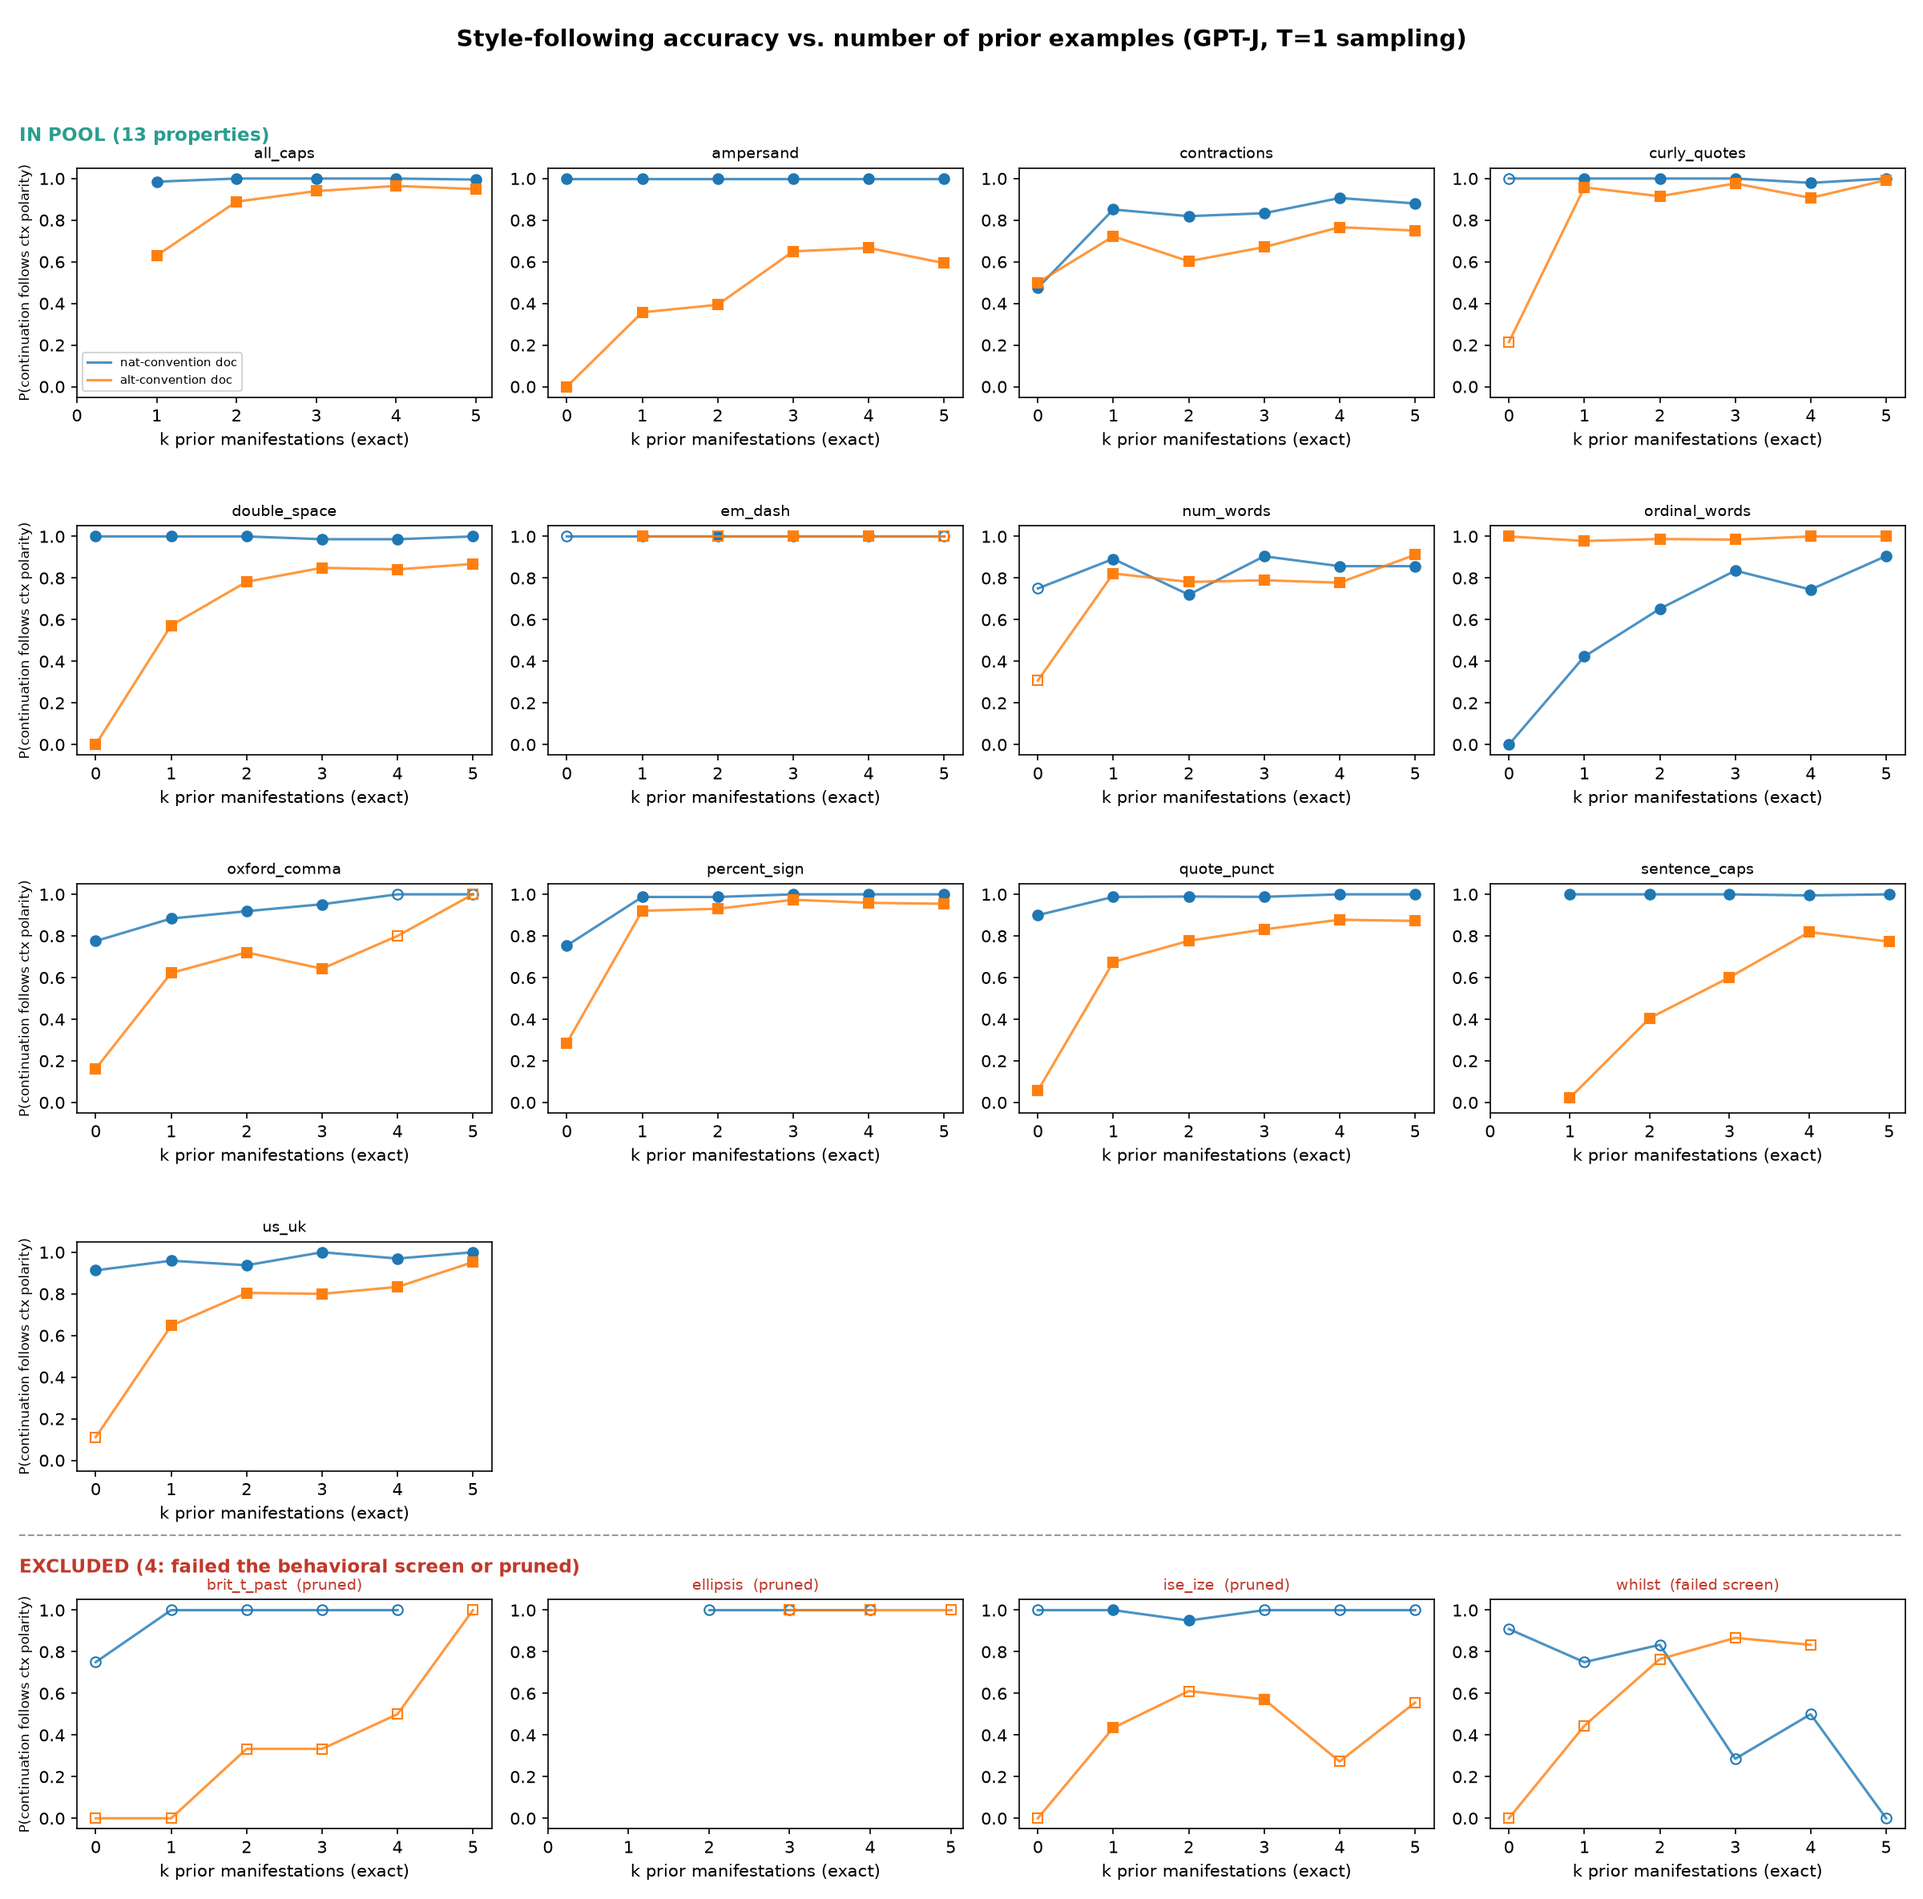
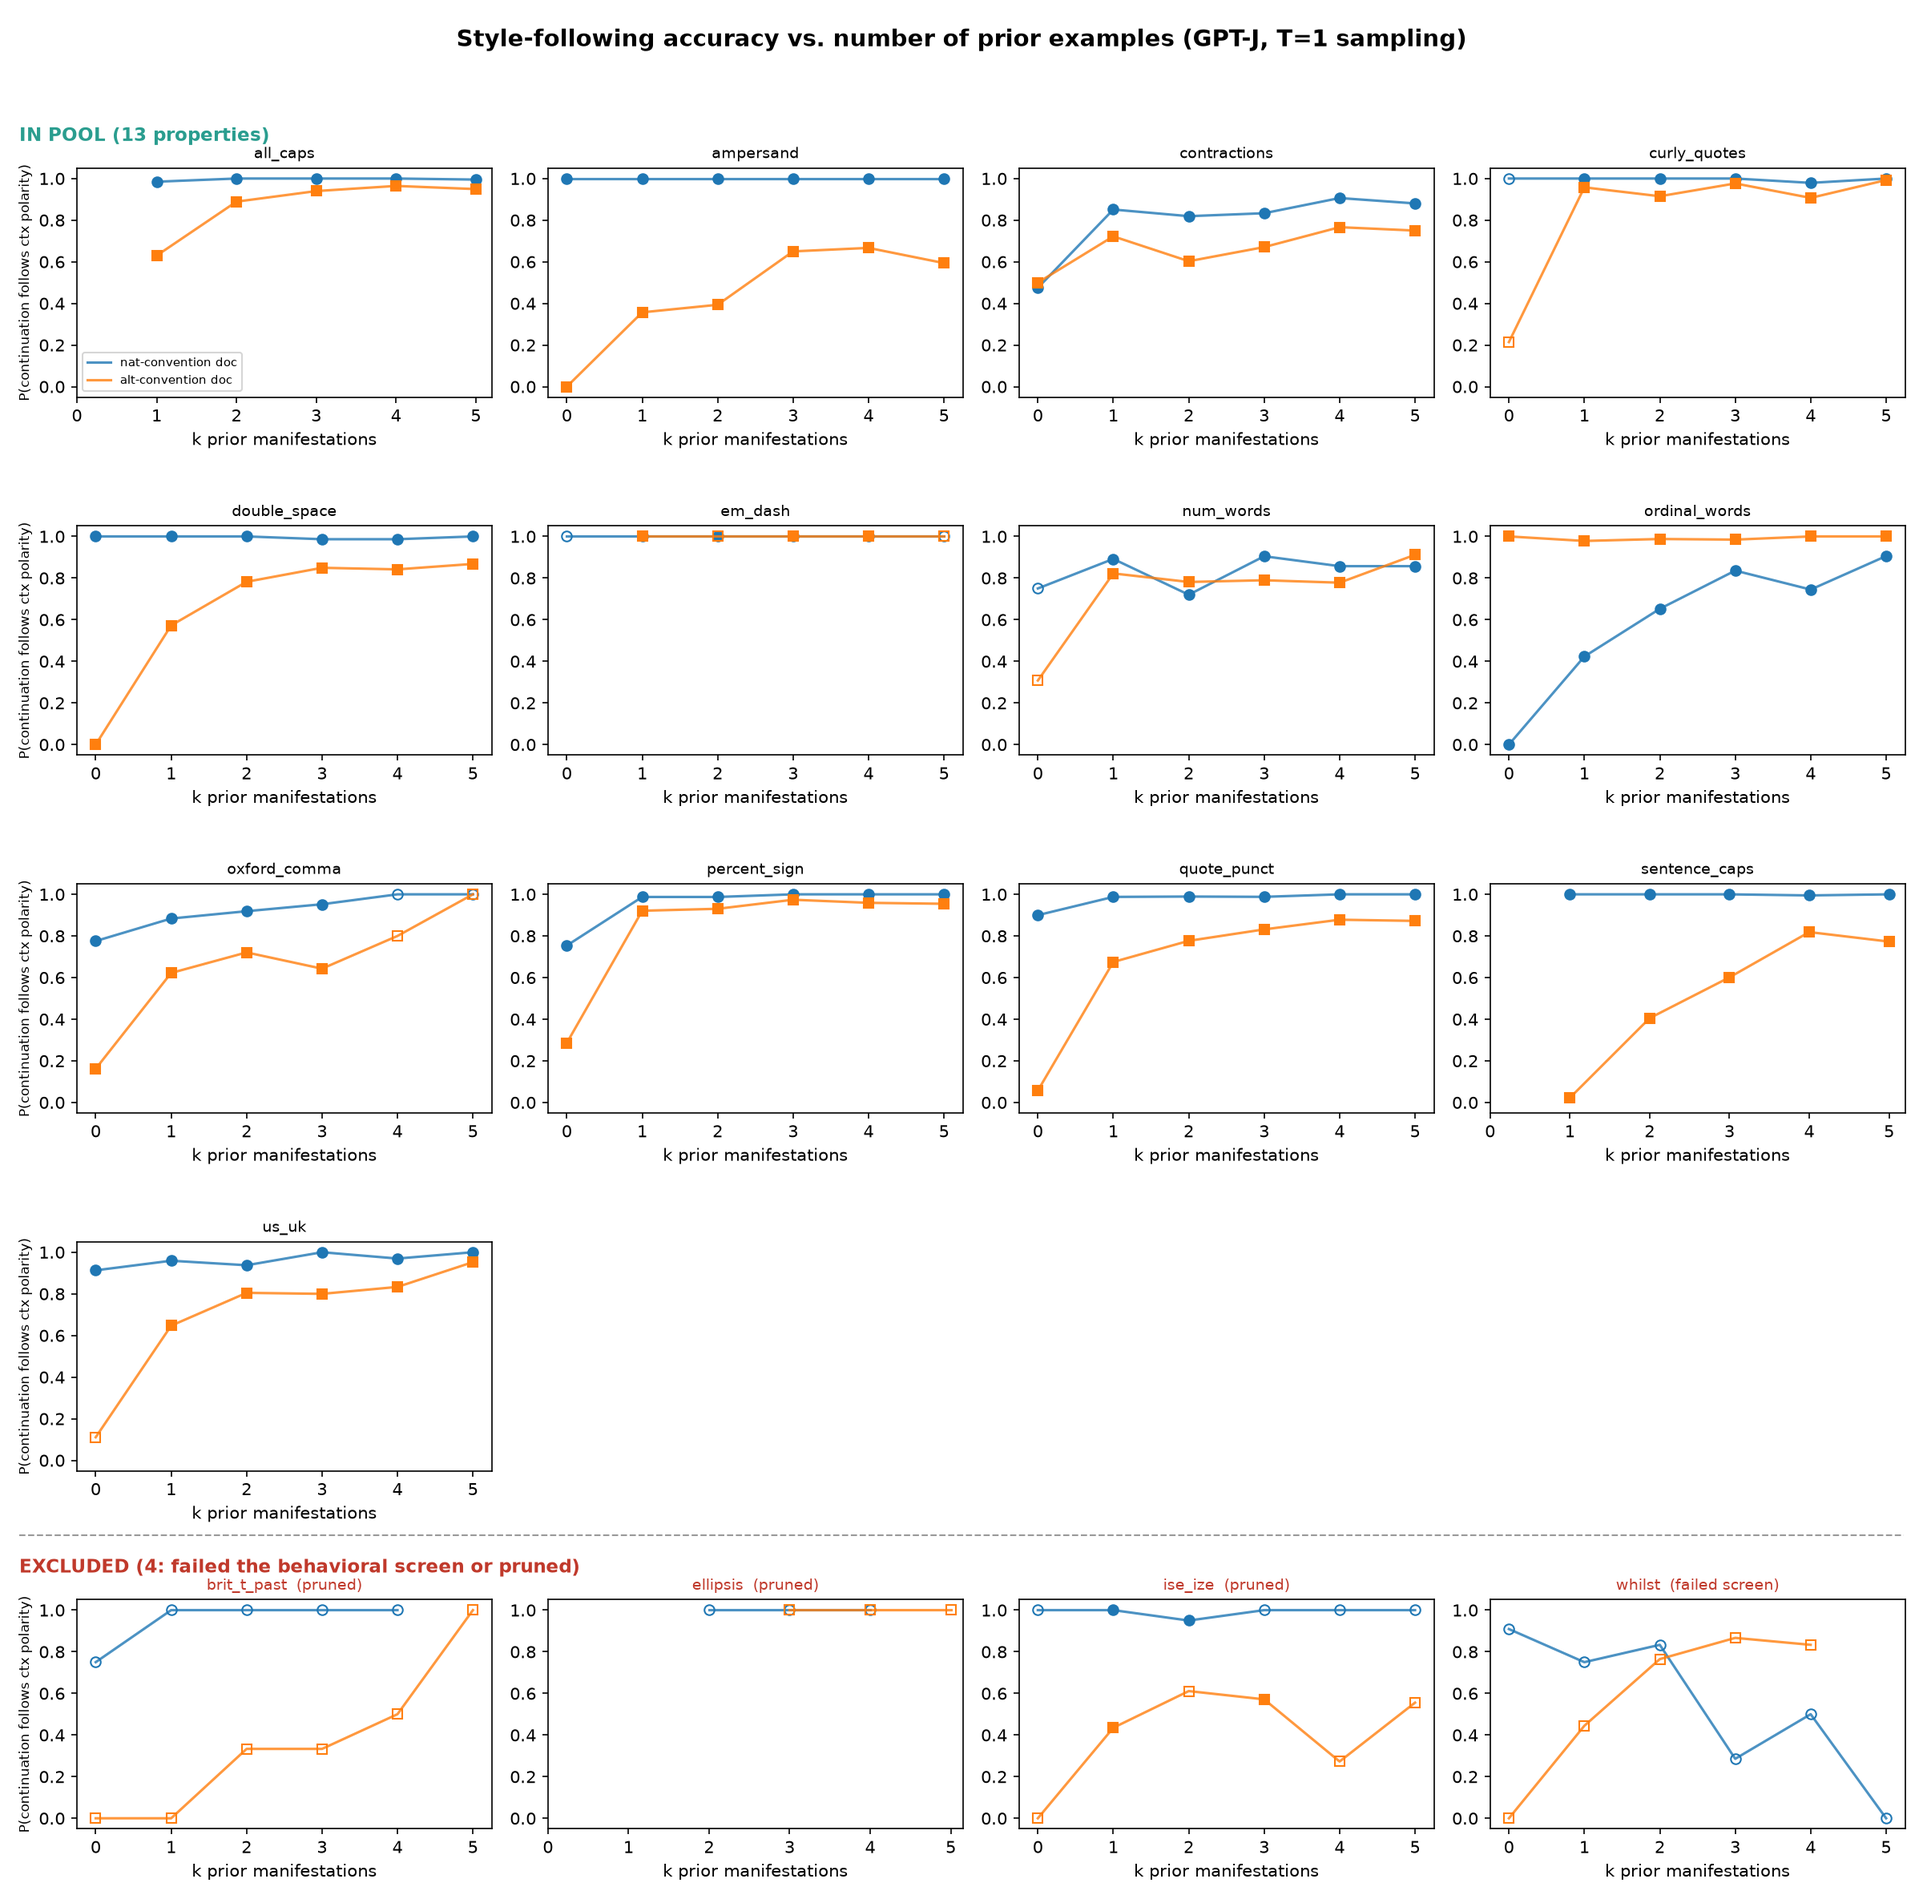
prescreen figures: drop '(exact)' from k axis labels

diff --git a/src/sandbox/ext_styleprops/plot_prescreen.py b/src/sandbox/ext_styleprops/plot_prescreen.py
@@ -135,7 +135,7 @@ def main():
         a.set_title(name, fontsize=9)
         a.set_ylim(-0.05, 1.05)
         a.set_xticks(PLOT_BINS)
-        a.set_xlabel("k prior manifestations (exact)")
+        a.set_xlabel("k prior manifestations")
         if pi % ncol == 0:
             a.set_ylabel("P(continuation = nat pole)", fontsize=8)
         if pi == 0:
@@ -161,7 +161,7 @@ def main():
         a.set_title(name, fontsize=9)
         a.set_ylim(-0.05, 1.05)
         a.set_xticks(PLOT_BINS)
-        a.set_xlabel("k prior manifestations (exact)")
+        a.set_xlabel("k prior manifestations")
         if pos3[name][1] == 0:
             a.set_ylabel("P(continuation follows ctx polarity)", fontsize=8)
         if pi == 0:
